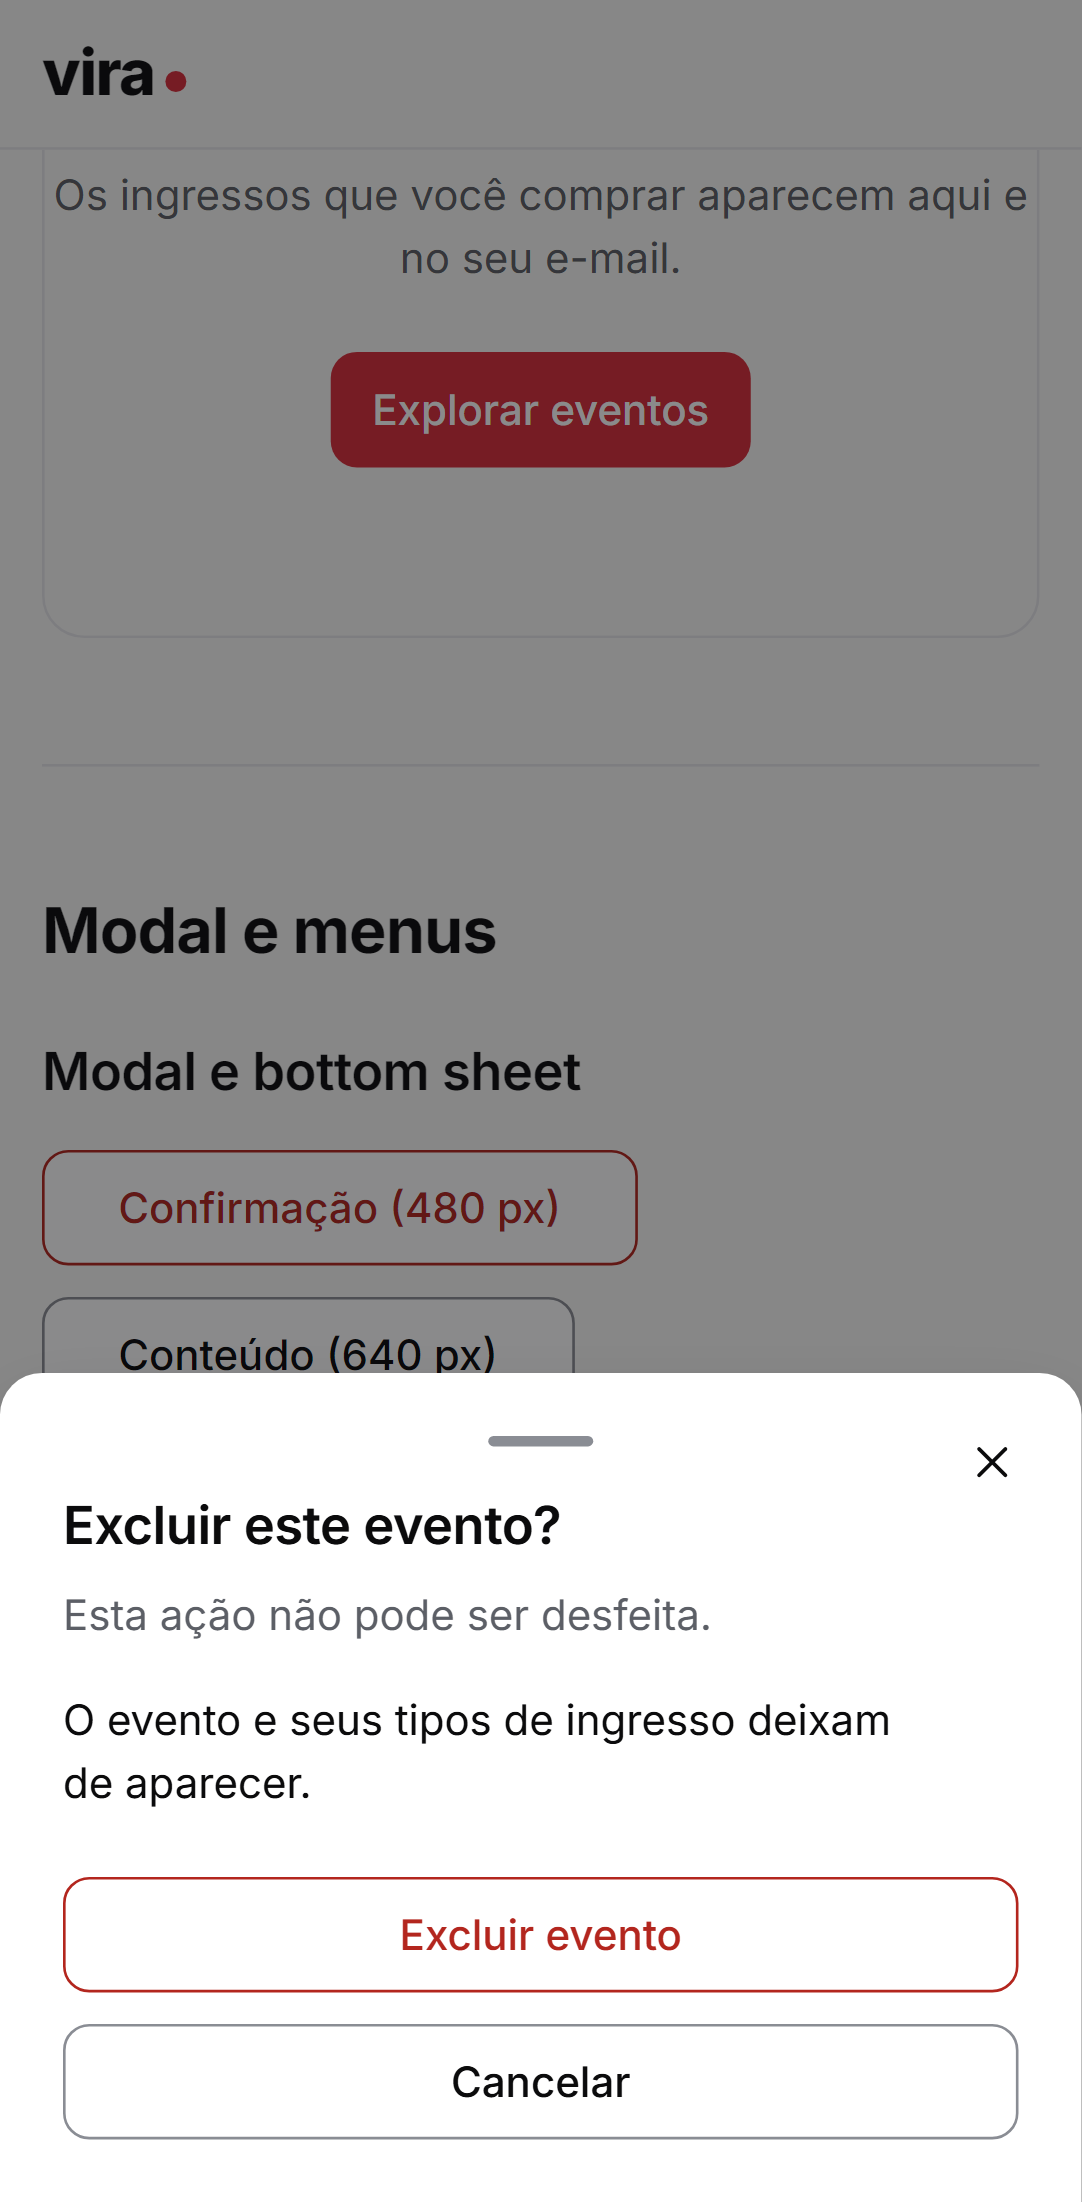
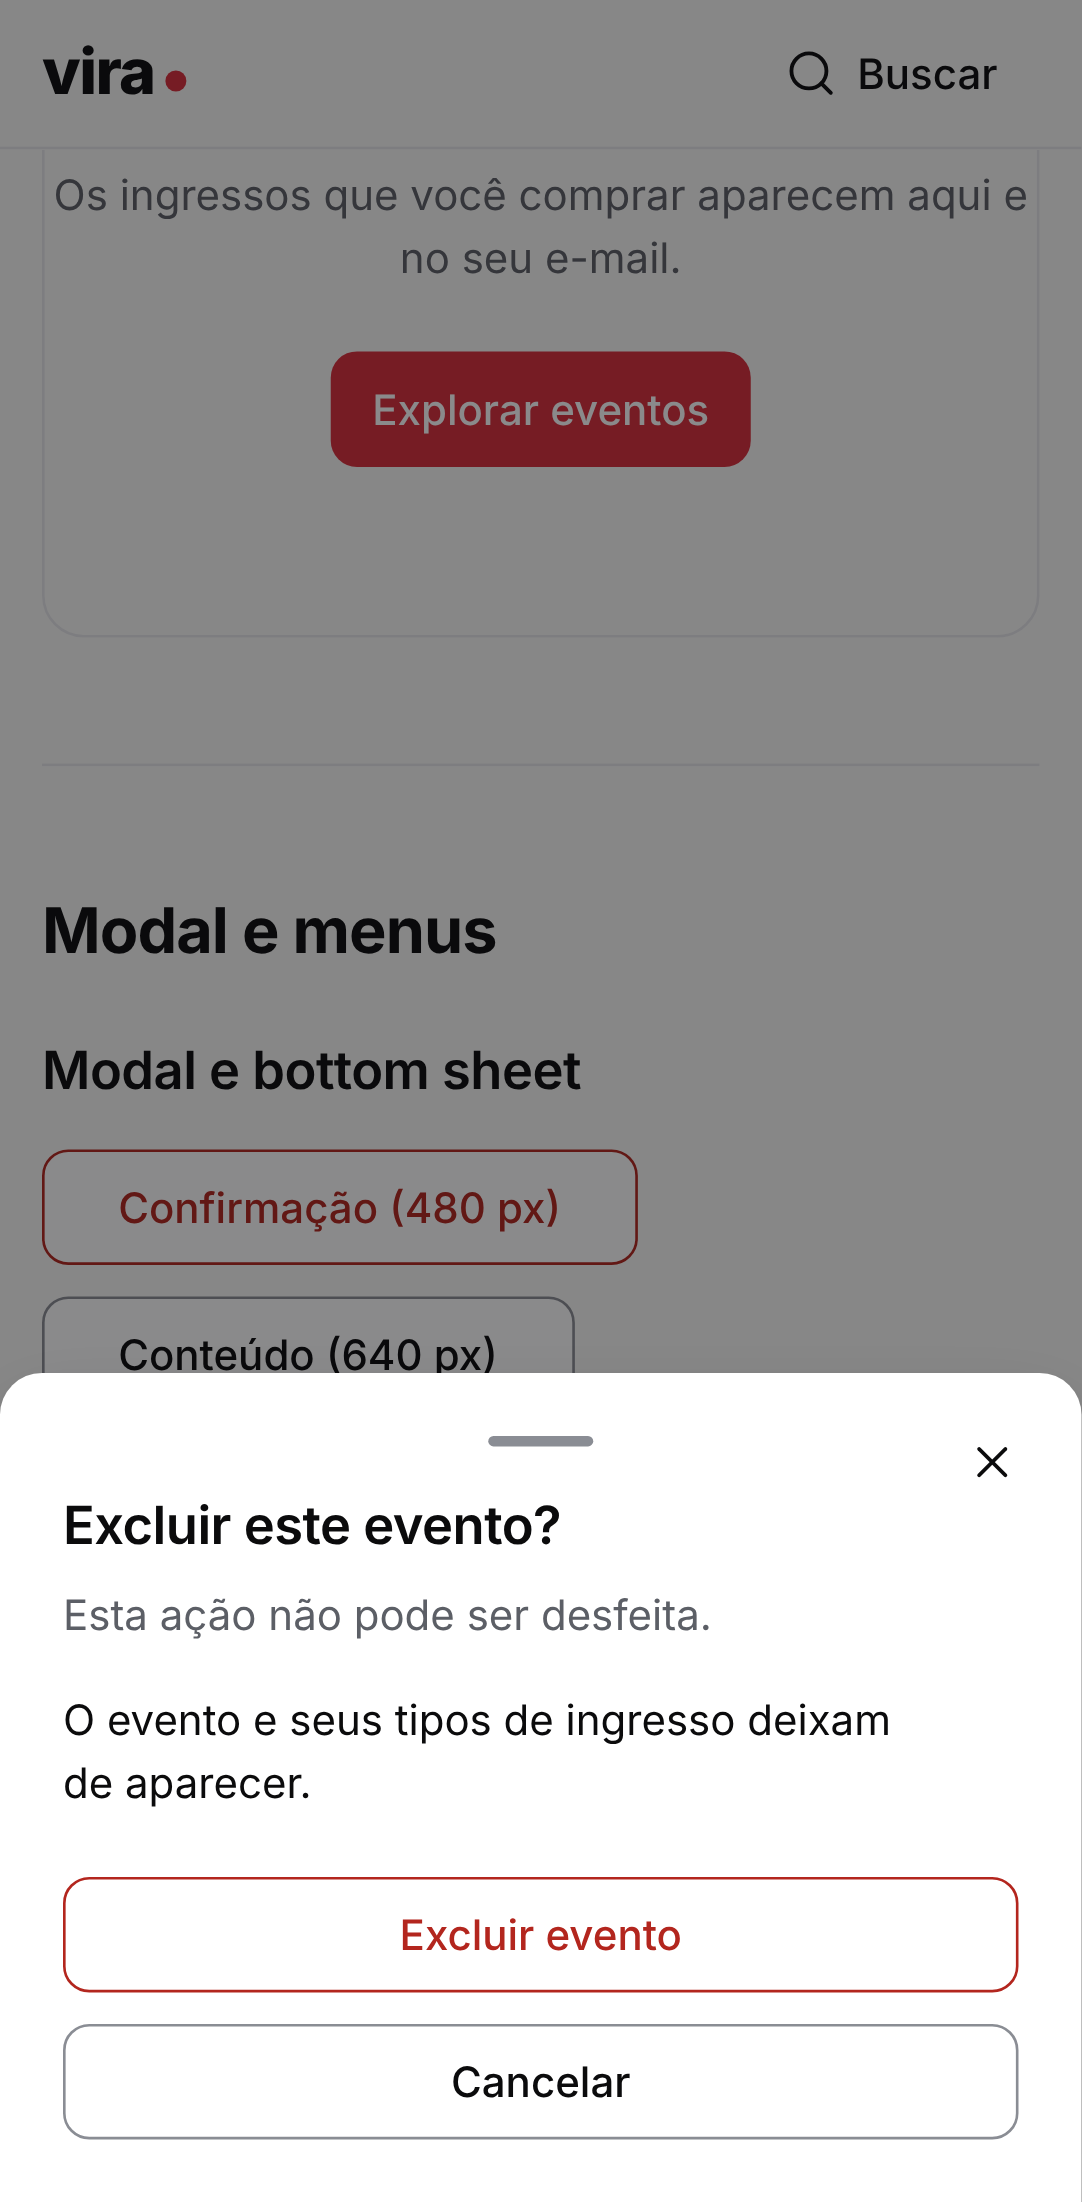
docs: document the storefront pages (N11)
Claude-Session: https://claude.ai/code/session_01UubopRhQ1kxTUqL6kiQZqD

Changed region(s): [[0.793, 0.0309, 0.915, 0.0618]]

diff --git a/PROGRESS.md b/PROGRESS.md
@@ -7,8 +7,8 @@ Arquivo para retomar o trabalho em outra sessão. **No início de cada sessão:*
 - **Marco:** 1 — Núcleo (o Marco 0 terminou com o merge da F7).
 - **Concluído (mergeado):** F1 a F7, N1 a N6 (PRs #1, #2, #8, #10–#17, #26, #27) e Dependabot (#4–#7, #9 CodeQL v4).
 - **Concluído também:** N8 — Eventos do organizador (PR #29, mergeado em 2026-10-18).
-- **Entregas abertas:** N7 — Telas de autenticação (`feat/web-auth`, PR #28), N9 — Upload de imagem (`feat/events-image-upload`, PR #30) e N10 — Vitrine da API (`feat/catalog`, empilhada na N9: depois do merge da N9, mudar a base do PR da N10 para `main`).
-- **Próximo passo:** N11 — Home, card e página do evento (web), que depende da N7 e da N10.
+- **Entregas abertas:** N7 — Telas de autenticação (`feat/web-auth`, PR #28), N10 — Vitrine da API (`feat/catalog`, PR #32) e N11 — Home, card e página do evento (`feat/web-storefront`, empilhada na N10: depois do merge da N10, mudar a base do PR da N11 para `main`).
+- **Próximo passo:** N12 — Painel do organizador, depois dos merges da N7, N10 e N11.
 - **Bloqueios / pendências do mantenedor:** Docker Desktop não sobe nesta máquina pela sessão do agente (precisa ser iniciado pelo usuário); os testes de integração (Testcontainers) e o job de `docker compose` rodam só no CI até lá.
 
 ## Regras que valem sempre
@@ -23,6 +23,35 @@ Arquivo para retomar o trabalho em outra sessão. **No início de cada sessão:*
 - Código e commits em inglês; documentação em português (README também em inglês).
 
 ## Registro
+
+### 2026-10-19 — N11: home, card e página do evento
+
+Auditoria (antes de codar): a N10 (PR #32) ainda não estava mergeada e a N11 consome os contratos dela, então a branch saiu da N10. A N7 (PR #28) também não estava, e a N11 não depende dela: as duas mexem no header, no `fake-api` do E2E e nos prints, e quem for mergeada depois resolve o conflito (pequeno: o header ganha "Explorar" e "Buscar" ao lado do menu da conta; os fixtures da vitrine ficam em `e2e/fixtures/`, fora do `fake-api.ts` da N7). O web não tinha cliente para ler a API no servidor nem configuração de imagens.
+
+Feito (web e `@vira/ui`; não mexe na API):
+
+- `@vira/ui`: `EventCard` (seção 3.3: foto 3:2, data no accent, título em até duas linhas, local, preço, badge de status sobre a foto e "Demonstração"; card inteiro clicável com uma parada de tabulação; placeholder tipográfico sem foto) e tokens de proporção das fotos.
+- Home: título, busca (GET para `/eventos`), chip "Este fim de semana", o próximo evento em destaque grande ao lado do título no desktop (no mobile vira o primeiro card) e até 6 destaques; estado vazio sem nada inventado.
+- Explorar (`/eventos`): busca por texto e cidade, chip de fim de semana, paginação por cursor ("Mais eventos"), erro de busca curta no campo, "Nada encontrado" com "Limpar filtros" e recuperação de cursor adulterado. "Explorar" no header (e "Buscar" no mobile).
+- Página do evento: banner 16:9 (4:3 sangrado no mobile), crédito da foto, badge e alert de demonstração, data e horário no fuso do evento com o nome do fuso, local com link para o OpenStreetMap, organizador, descrição sanitizada pela API (dobra em 6 linhas com "Ler mais" no mobile), ingressos em linhas com o estado de venda, evento cancelado e encerrado.
+- Carregamento: skeletons nas três páginas; erro: a página de erro existente.
+- SEO: `metadataBase`, título, descrição, canonical, Open Graph e Twitter card por evento, JSON-LD `Event`, `/eventos/[slug]/imagem` (endereço estável da foto para prévias), `robots.txt`.
+- Config: `STORAGE_ORIGIN` e `SITE_URL` (lidas no build, mesmas regras do `API_ORIGIN`), `images.remotePatterns` só do armazenamento.
+- Testes: unitários de formatação (preço, datas e fusos, intervalo de datas, resumo), busca (parâmetros, fim de semana em Brasília), SEO (metadata, JSON-LD que não fecha a tag), origens e `next.config`, e do `EventCard` (ordem, um único link, só a data em vermelho, sem `style=` no HTML do servidor); E2E em desktop e mobile com uma API falsa (fixtures marcados "Demonstração", fotos PNG geradas em código) e uma segunda instância vazia: cards, destaque, fotos pelo otimizador sem violação de CSP, busca, filtros, paginação, cursor adulterado, página do evento (ordem de leitura, fuso, crédito, ingressos, "Ler mais", cancelado, encerrado, metadados e JSON-LD, foto do Open Graph, slug inexistente), axe em todas e reflow em 320 px.
+
+Decisões tomadas por conta própria:
+
+- **Sem botão de compra:** o checkout é a V6. A página mostra os tipos e preços e diz, num alert, que a compra pelo site ainda não está aberta, em vez de um CTA que não leva a lugar nenhum.
+- **Fotos pelo otimizador com `getImageProps`**, sem o `style` que o `<Image>` escreve (a CSP bloquearia) e com a prévia borrada como `<img>` separada.
+- **Explorar entrou na N11:** a busca do wireframe da home precisa de um destino, e "Ver todos" também.
+- **"Este fim de semana"** é sábado 00:00 a segunda 00:00 em Brasília (sem horário de verão desde 2019), para eventos de qualquer fuso.
+- **Streaming com `loading.tsx`**: slug inexistente responde com a página de não encontrado e `noindex`, não com status 404 (o Next.js fixa o status quando o streaming começa).
+
+Pendências para o mantenedor decidir ou priorizar:
+
+- **Cache das fotos (V11):** o endereço assinado muda a cada resposta da API, então o otimizador do Next.js não reaproveita o cache entre visitas (cada visita reprocessa a foto). Na demo isso custa transformações da Vercel; dá para resolver na API (assinar com horário arredondado) ou servir as fotos publicadas por um domínio público do R2.
+- **Deploy (V11):** preencher `STORAGE_ORIGIN` (origem do R2) e `SITE_URL` na Vercel.
+- **Seletor de cidades:** o wireframe da home tem "Cidade ▾", mas a API não lista cidades; hoje a cidade é texto livre em Explorar.
 
 ### 2026-10-19 — N10: vitrine da API
 

diff --git a/docs/ROADMAP.md b/docs/ROADMAP.md
@@ -36,7 +36,7 @@ Objetivo: design system, contas, eventos e vitrine funcionando de ponta a ponta 
 | N8 | Eventos do organizador (API) | `feat/events-management` | CRUD de rascunho, publicar (com validação de completude), cancelar; tipos de ingresso com invariantes (`CHECK`); markdown sanitizado no servidor (teste com payloads XSS); testes provando que um organizador não acessa eventos de outro (`404`). Também entrou: paginação por cursor assinado (HMAC preso à conta e ao filtro), trava da linha do evento ao publicar e mexer em tipos de ingresso, evento publicado obrigado a continuar completo, limite de 20 tipos por evento. Ficaram para depois: rotas de imagem (N9) e `/sales` (com os pedidos). | 🟨 |
 | N9 | Upload de imagem | `feat/events-image-upload` | URL pré-assinada (SeaweedFS/R2) com tipo e tamanho fixados; confirmação valida magic bytes, re-encoda sem EXIF e gera `blurDataURL`; bucket privado; job limpa uploads pendentes; testes com arquivo falso e grande demais. Também entrou: `pnpm storage:setup` (bucket e CORS), limite de 40 megapixels e mínimo de 1200 × 600, endereço assinado da imagem na visão do organizador, varredura das imagens trocadas e de rascunhos excluídos. | 🟨 |
 | N10 | Vitrine (API) | `feat/catalog` | `GET /events` com busca, filtros e cursor assinado; `GET /events/featured`; `GET /events/{slug}`; só eventos publicados; teste de estabilidade da paginação. Também entrou: `salesStatus` e `available` por tipo de ingresso, `priceFrom` e `soldOut` no resumo, crédito da foto e nome do organizador na página, página de evento cancelado mantida, `%` e `_` escapados na busca. | 🟨 |
-| N11 | Home, card e página do evento | `feat/web-storefront` | Home, card de evento e página do evento conforme os wireframes; estados vazios e de carregamento; SEO básico (metadata, Open Graph); E2E + axe; prints desktop e mobile. | ⬜ |
+| N11 | Home, card e página do evento | `feat/web-storefront` | Home, card de evento e página do evento conforme os wireframes; estados vazios e de carregamento; SEO básico (metadata, Open Graph); E2E + axe; prints desktop e mobile. Também entrou: página Explorar (`/eventos`) com busca por texto e cidade, chip "Este fim de semana" e paginação por cursor; "Explorar" no header; dados estruturados `Event` (JSON-LD); endereço estável da foto para o Open Graph; `robots.txt`. A compra (seletor, CTA e barra fixa) fica para o checkout (V6). | 🟨 |
 | N12 | Painel do organizador | `feat/web-organizer` | Lista, criação e edição de eventos e tipos de ingresso, upload de imagem, publicar/cancelar; E2E do fluxo de publicação; prints. | ⬜ |
 | N13 | Seed de demonstração | `feat/demo-seed` | `pnpm db:seed:demo` cria eventos com `is_demo`, fotos de licença livre e créditos; `--reset` remove só esses dados; selo "Demonstração" visível no card e na página (E2E). | ⬜ |
 

diff --git a/docs/ARCHITECTURE.md b/docs/ARCHITECTURE.md
@@ -355,6 +355,14 @@ sequenceDiagram
 - **CSP com nonce por requisição:** `src/proxy.ts` (o antigo `middleware`, renomeado no Next.js 16) gera o nonce, coloca a CSP na requisição (para o Next marcar os próprios scripts) e na resposta. Por isso as páginas são renderizadas a cada requisição (o layout lê `headers()`), o que descarta cache estático e Partial Prerendering; é o custo de uma CSP estrita sem `unsafe-inline`.
 - **Demais cabeçalhos** (HSTS, `nosniff`, `X-Frame-Options`, `Referrer-Policy`, `Permissions-Policy`, COOP) vêm de `next.config.ts`; `X-Powered-By` é desligado.
 
+### Vitrine no web (N11)
+
+- **Dados no servidor, direto da API:** a home (`/`), Explorar (`/eventos`) e a página do evento (`/eventos/[slug]`) são Server Components que chamam `API_ORIGIN` sem passar pelo proxy (não há sessão a repassar), com `no-store` e as respostas validadas pelos schemas de `@vira/shared` (`src/lib/catalog/api.ts`). Uma API fora do ar ou uma resposta fora do contrato leva à página de erro da rota.
+- **Busca no endereço:** Explorar guarda texto, cidade, "Este fim de semana" (sábado 00:00 a segunda 00:00, horário de Brasília) e o cursor na query string (`q`, `cidade`, `periodo`, `cursor`), então funciona sem JavaScript e pode ser compartilhada.
+- **Fotos pelo otimizador do Next.js:** os endereços assinados do bucket passam por `/_next/image`, que só aceita a origem `STORAGE_ORIGIN` (lida no build; loopback só quando o próprio armazenamento é local). O navegador nunca carrega o bucket, e a CSP mantém `img-src 'self' data:`. O `<img>` é montado com `getImageProps` e sem o atributo `style` que o `<Image>` escreveria; a prévia borrada é uma segunda `<img>` com a data URL, por baixo.
+- **SEO:** `metadataBase` vem de `SITE_URL` (ou do domínio de produção da Vercel); cada evento tem título, descrição, canonical, Open Graph e JSON-LD `Event`. A imagem do Open Graph é `/eventos/[slug]/imagem`, que redireciona para o otimizador com um endereço assinado novo, porque o da API vence em 1 hora e as prévias de link são buscadas depois.
+- **Carregamento:** `loading.tsx` com skeletons na home, em Explorar e na página do evento. Por isso a resposta começa em streaming com `200`; um slug inexistente mostra a página de não encontrado com `noindex` (comportamento documentado do Next.js), e uma rota inexistente continua em `404`.
+
 ## 9. Ambientes
 
 | Ambiente | Web | API + worker | Banco | Redis | Storage | E-mail | Stripe |

diff --git a/docs/DESIGN.md b/docs/DESIGN.md
@@ -332,6 +332,7 @@ Validação: no `blur` e no envio, nunca a cada tecla. No envio com erros, o foc
 - Sem imagem: placeholder tipográfico — fundo `surface-sunken`, iniciais do evento em `h1` `ink-muted`, sem ícone nem gradiente.
 - Grid: 1 coluna (< 640), 2 (640–1023), 3 (≥ 1024). Destaques na home: **no máximo 6** cards.
 - Variante `compact` (lista de "Meus ingressos" e painel): imagem 1:1 de 72px à esquerda, texto à direita.
+- **Como ficou implementado (N11):** `EventCard` em `@vira/ui`, que recebe o link vazio (`link={<Link href=… />}`) e desenha o título dentro dele; o pseudo-elemento do link cobre o card, e o anel de foco é do `<article>` (`has-[a:focus-visible]`). As proporções das fotos viraram tokens (`aspect-card` 3:2, `aspect-banner` 16:9, `aspect-banner-sm` 4:3, `aspect-hero` 4:5). A variante `compact` entra com "Meus ingressos" (V7).
 
 ### 3.4 Badges
 
@@ -580,6 +581,8 @@ O evento em destaque do hero não aparece no mobile (vira o primeiro card), para
 ```
 
 A barra fixa sempre mostra o total e o CTA; antes de selecionar um tipo, o CTA é "Ver ingressos" e rola até o seletor.
+
+**Como ficou implementado (N11).** Home, Explorar e a página do evento seguem estes wireframes, com quatro diferenças até o checkout (V6) existir: os tipos de ingresso aparecem como linhas só de leitura (nome, preço e estado em texto: "Últimos ingressos" abaixo de 10, "Esgotado", "Vendas a partir de…", "Vendas encerradas"), sem radio, stepper, total, CTA nem barra fixa no mobile, e um alert diz que a compra pelo site ainda não está aberta; o header do mobile continua o global (logo e "Buscar"), sem o "‹ Voltar ⤴" da página do evento; a busca da home não tem o seletor de cidade (não há lista de cidades na API) — a cidade é um campo de texto em Explorar; dos chips, só "Este fim de semana" existe, porque é o único que os dados sustentam. A seção "Informações" (classificação, acessibilidade) não aparece porque esses campos não existem no evento.
 
 ### 4.3 Checkout
 

diff --git a/CONTRIBUTING.md b/CONTRIBUTING.md
@@ -103,7 +103,9 @@ pnpm --filter @vira/web screenshots  # prints para PRs de interface (servidor co
 ```
 
 - `API_ORIGIN` (veja `apps/web/.env.example`) define para onde `/api/v1` é encaminhado. É lido **no build**: rebuilde ao mudá-lo.
-- O E2E sobe uma API falsa na porta 3000 e o web na 3101. Rode `pnpm --filter @vira/web build` antes; no primeiro uso, `pnpm --filter @vira/web exec playwright install chromium`.
+- `STORAGE_ORIGIN` diz de onde vêm as fotos dos eventos (o SeaweedFS local por padrão); só essa origem passa pelo otimizador de imagens. Também é lido no build. `SITE_URL` é o endereço público usado no canonical e no Open Graph.
+- As páginas da vitrine leem a API a cada requisição; sem a API no ar, a home mostra o estado de erro. Para ver a vitrine sem a API real, rode a API falsa do E2E (`node apps/web/e2e/fake-api.ts`, eventos de teste marcados "Demonstração", fotos servidas na porta 8333).
+- O E2E sobe uma API falsa na porta 3000 (e o armazenamento falso na 8333) e o web na 3101, mais uma segunda dupla vazia (API 3002, web 3102) para os estados vazios. Rode `pnpm --filter @vira/web build` antes; no primeiro uso, `pnpm --filter @vira/web exec playwright install chromium`.
 - Toda página é renderizada a cada requisição (a CSP usa nonce, veja [ARCHITECTURE.md](docs/ARCHITECTURE.md#8-aplicação-web)). Não use estilos inline nem scripts inline sem nonce: a CSP os bloqueia.
 
 ### E-mails locais (Mailpit)
